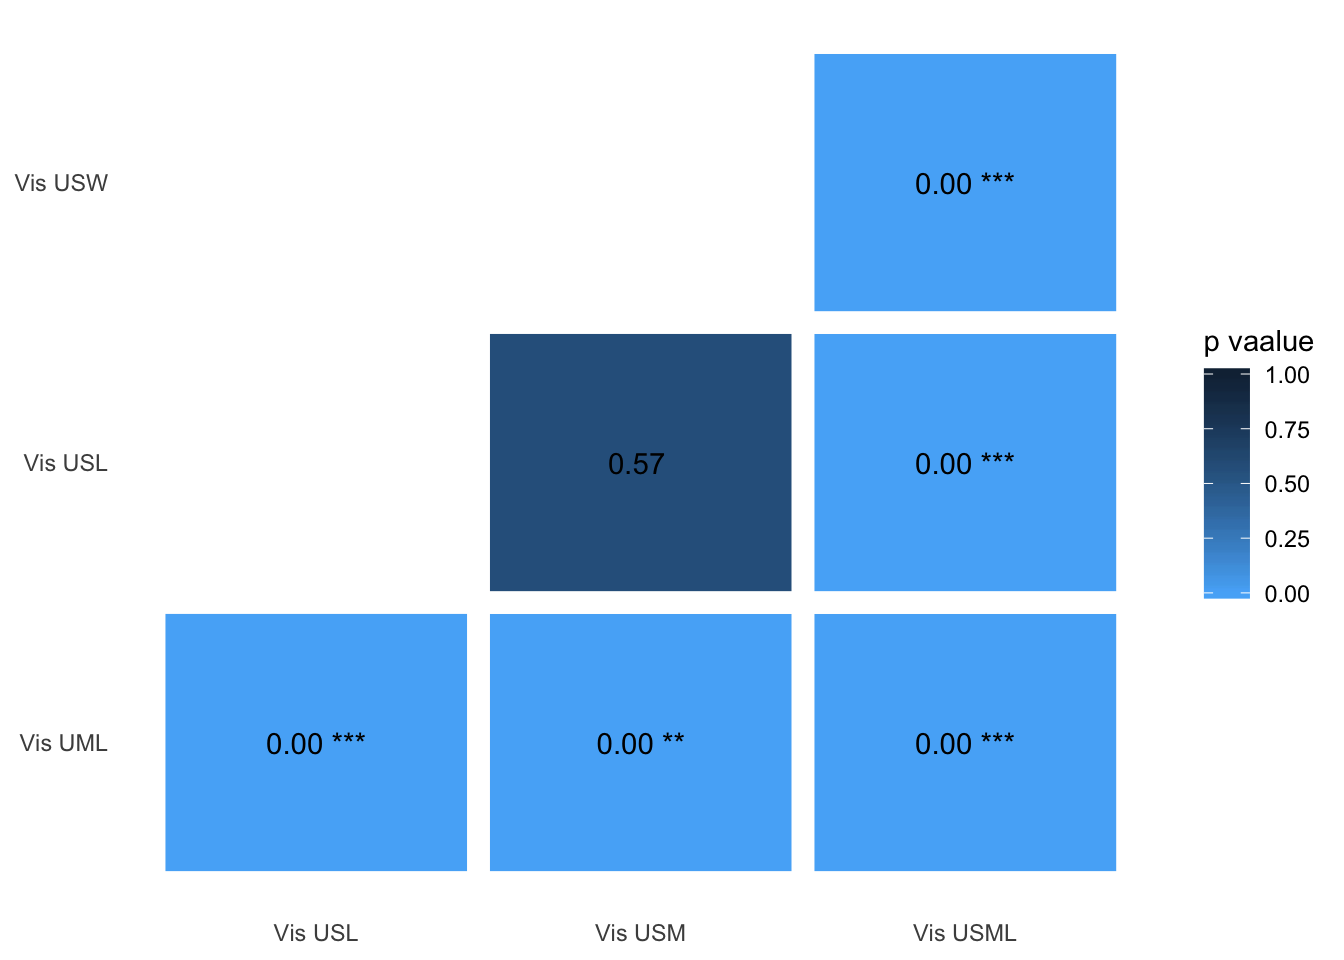
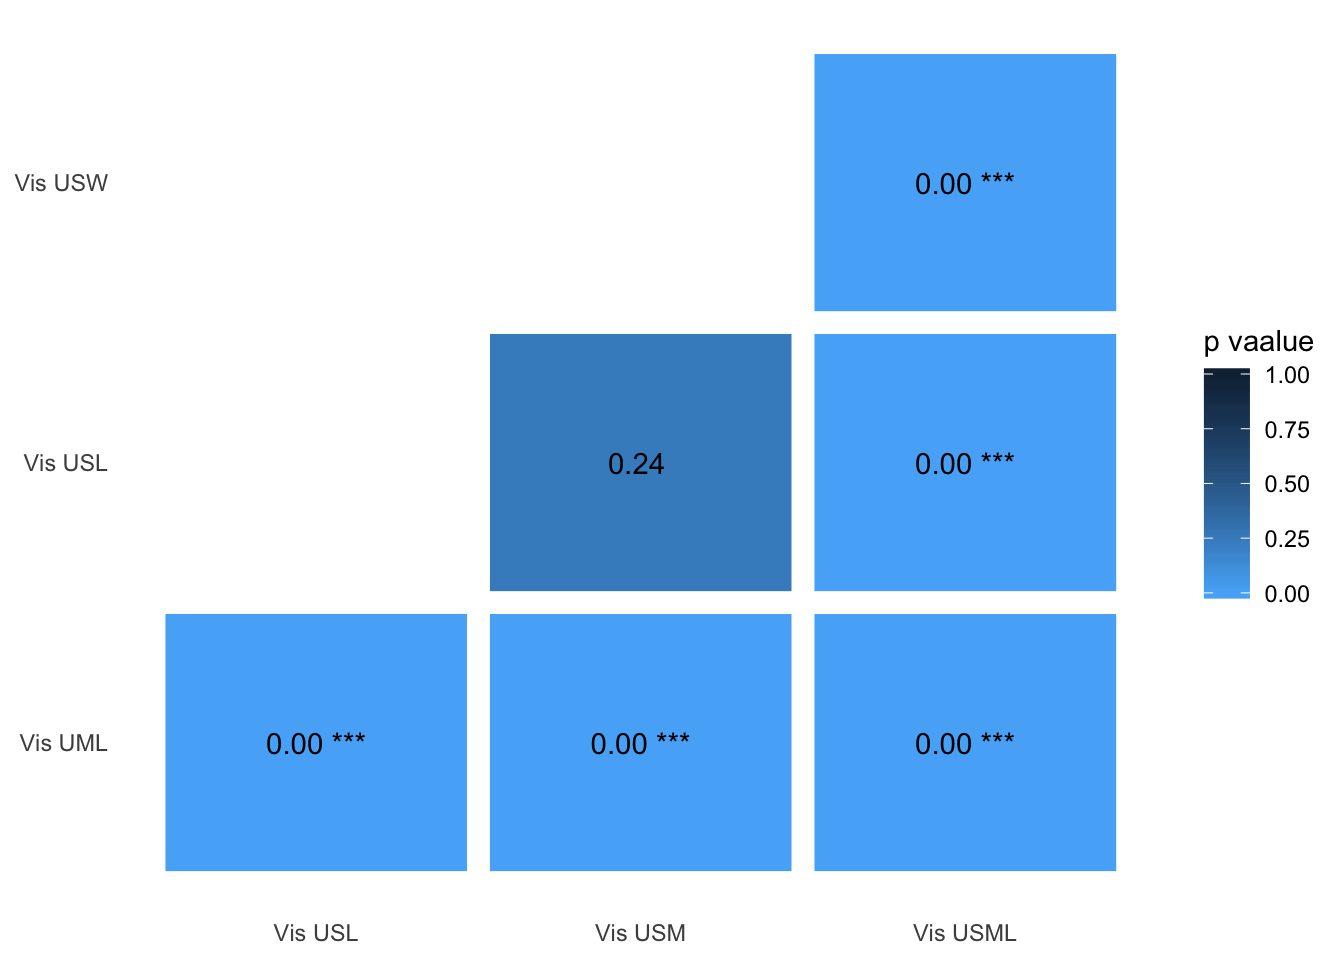
update 2020 March 25

Changed region(s): [[0.3438, 0.3438, 0.5938, 0.625], [0.4375, 0.75, 0.5, 0.8125]]

diff --git a/index.html b/index.html
@@ -1759,7 +1759,7 @@ heat_twilight.model2<span class="op">$</span>sig.flower.vs.beetle[heat_twilight.
 <h4><strong>Beetle vs Flower</strong></h4>
 <div id="daylight-2" class="section level5 tabset tabset-fade tabset-pills">
 <h5>Daylight</h5>
-<div class="sourceCode"><pre class="sourceCode r"><code class="sourceCode r"><span class="kw">Anova</span>(m.flower.vs.beetle_twilight.model1) <span class="op">%&gt;%</span><span class="st"> </span><span class="kw">pander</span>()</code></pre></div>
+<div class="sourceCode"><pre class="sourceCode r"><code class="sourceCode r"><span class="kw">Anova</span>(m.flower.vs.beetle_d65.model1) <span class="op">%&gt;%</span><span class="st"> </span><span class="kw">pander</span>()</code></pre></div>
 <table style="width:78%;">
 <caption>Analysis of Deviance Table (Type II Wald chisquare tests)</caption>
 <colgroup>
@@ -1779,9 +1779,9 @@ heat_twilight.model2<span class="op">$</span>sig.flower.vs.beetle[heat_twilight.
 <tbody>
 <tr class="odd">
 <td align="center"><strong>peak_wl.flower.vs.beetle</strong></td>
-<td align="center">257.8</td>
+<td align="center">273</td>
 <td align="center">3</td>
-<td align="center">1.331e-55</td>
+<td align="center">6.91e-59</td>
 </tr>
 </tbody>
 </table>
@@ -1789,9 +1789,9 @@ heat_twilight.model2<span class="op">$</span>sig.flower.vs.beetle[heat_twilight.
 <p>Click the tabs to see posthoc results ( <strong>p-value summary plot</strong> / <strong>original model output</strong> )</p>
 <div id="pair-wise-p-values-4" class="section level6">
 <h6>Pair-wise p-values</h6>
-<div class="sourceCode"><pre class="sourceCode r"><code class="sourceCode r"><span class="kw">ggplot</span>(<span class="dt">data =</span> heat_twilight.model1, <span class="kw">aes</span>(<span class="dt">x=</span>VislistA_twilight.model1, <span class="dt">y=</span>VislistB_twilight.model1, <span class="dt">fill=</span>flower.vs.beetle)) <span class="op">+</span><span class="st"> </span>
+<div class="sourceCode"><pre class="sourceCode r"><code class="sourceCode r"><span class="kw">ggplot</span>(<span class="dt">data =</span> heat_d65.model1, <span class="kw">aes</span>(<span class="dt">x=</span>VislistA_d65.model1, <span class="dt">y=</span>VislistB_d65.model1, <span class="dt">fill=</span>flower.vs.beetle)) <span class="op">+</span><span class="st"> </span>
 <span class="st">  </span><span class="kw">geom_tile</span>(<span class="dt">colour=</span><span class="st">&quot;white&quot;</span>, <span class="dt">size =</span> <span class="dv">4</span>)<span class="op">+</span>
-<span class="st">  </span><span class="kw">geom_text</span>(<span class="kw">aes</span>(VislistA_twilight.model1, VislistB_twilight.model1, <span class="dt">label =</span> <span class="kw">paste</span>(<span class="kw">format</span>(<span class="kw">round</span>(flower.vs.beetle, <span class="dv">2</span>), <span class="dt">nsmall =</span> <span class="dv">2</span>), sig.flower.vs.beetle)))<span class="op">+</span>
+<span class="st">  </span><span class="kw">geom_text</span>(<span class="kw">aes</span>(VislistA_d65.model1, VislistB_d65.model1, <span class="dt">label =</span> <span class="kw">paste</span>(<span class="kw">format</span>(<span class="kw">round</span>(flower.vs.beetle, <span class="dv">2</span>), <span class="dt">nsmall =</span> <span class="dv">2</span>), sig.flower.vs.beetle)))<span class="op">+</span>
 <span class="st">  </span><span class="kw">scale_fill_continuous</span>(<span class="dt">high =</span> <span class="st">&quot;#132B43&quot;</span>, <span class="dt">low =</span> <span class="st">&quot;#56B1F7&quot;</span>, <span class="dt">limit=</span><span class="kw">c</span>(<span class="dv">0</span>,<span class="dv">1</span>))<span class="op">+</span><span class="st"> </span><span class="co">#delete if want to reverse the colour </span>
 <span class="st">  </span><span class="kw">theme_bw</span>()<span class="op">+</span>
 <span class="st">  </span><span class="kw">theme</span>(<span class="dt">axis.title.x=</span><span class="kw">element_blank</span>(),
